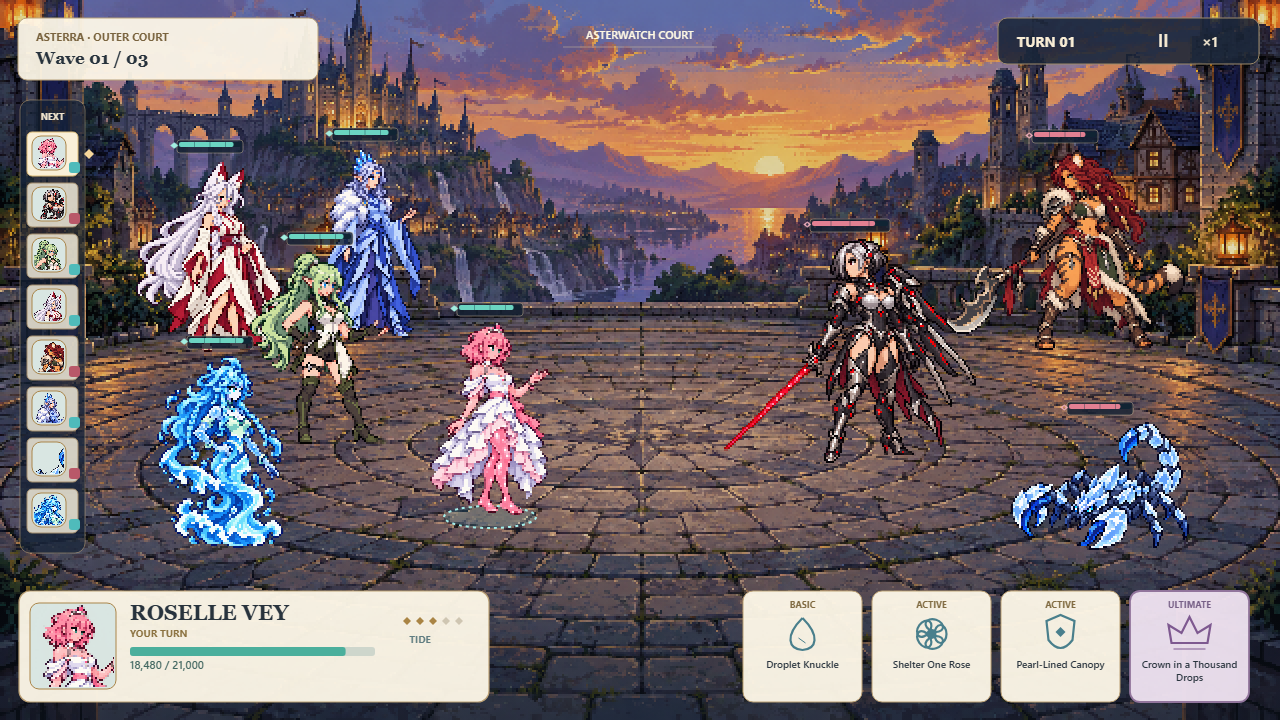
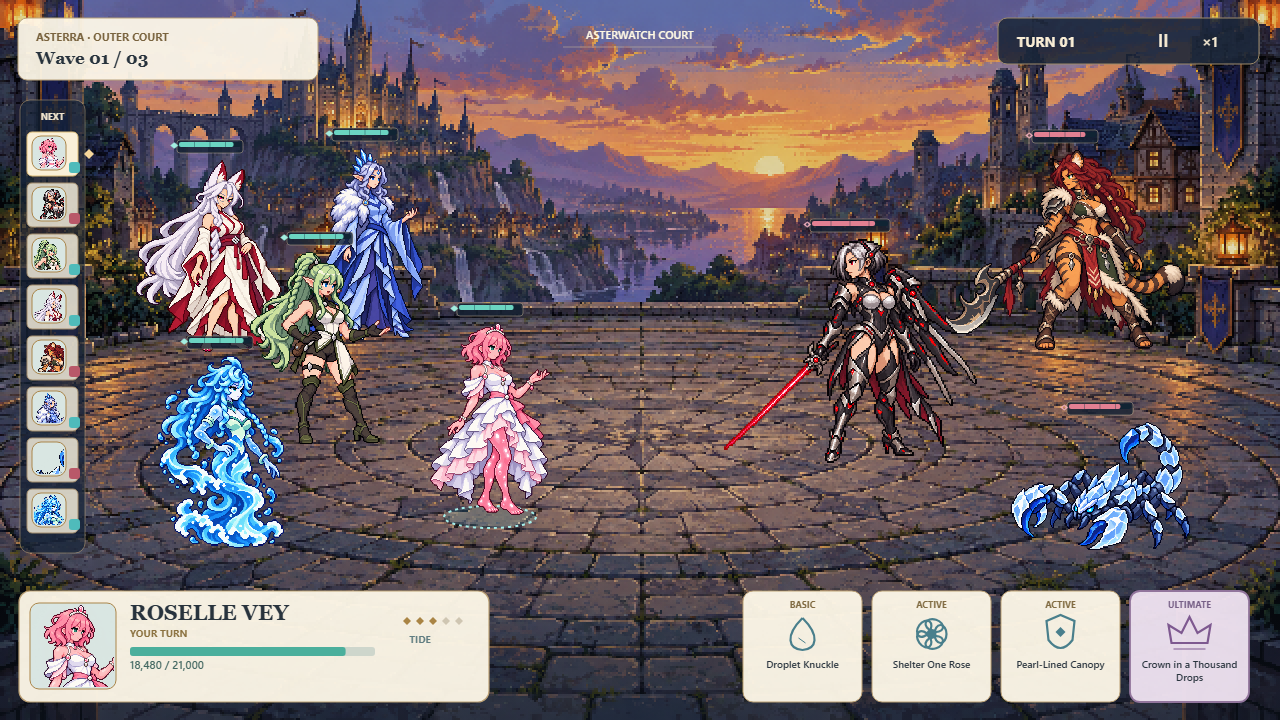
Publish current ProjectG character and kit review

diff --git a/combat.html b/combat.html
@@ -1,12 +1,12 @@
 <!doctype html><html lang="en"><head><meta charset="utf-8"><meta name="viewport" content="width=device-width, initial-scale=1"><title>ProjectG · Three combat drafts</title><style>
 :root{color-scheme:light;--paper:#f4f0e7;--card:#fffdf8;--ink:#292930;--muted:#68645d;--gold:#866427;--line:#dbd0bb}*{box-sizing:border-box}body{margin:0;background:var(--paper);color:var(--ink);font:15px/1.55 system-ui,-apple-system,"Segoe UI",sans-serif}main{max-width:1500px;margin:auto;padding:30px clamp(14px,3vw,38px) 48px}a{color:#77551b;text-underline-offset:3px}button{font:inherit;cursor:pointer}button:disabled{cursor:wait;opacity:.55}a:focus-visible,button:focus-visible{outline:3px solid #a98036;outline-offset:3px}.eyebrow{margin:0 0 8px;color:var(--gold);font-size:11px;font-weight:750;letter-spacing:.14em;text-transform:uppercase}h1{margin:0;font:500 clamp(30px,4vw,44px)/1.15 Georgia,serif}.intro{max-width:860px;color:var(--muted);margin:14px 0}.links{display:flex;flex-wrap:wrap;gap:8px 20px;margin:16px 0}.notice{padding:11px 15px;background:#eae0ca;border-left:3px solid #a98036;font-size:14px}.layouts{display:grid;grid-template-columns:repeat(3,minmax(0,1fr));gap:12px;margin:24px 0 18px}.layout{min-width:0;text-align:left;min-height:94px;border:1px solid var(--line);border-radius:12px;padding:13px 15px;background:var(--card);color:var(--ink)}.layout strong{display:block;font:500 21px/1.25 Georgia,serif}.layout span{display:block;margin-top:5px;color:var(--muted);font-size:12px}.layout[aria-pressed=true]{border-color:#8b6c32;box-shadow:inset 0 0 0 1px #8b6c32;background:#fff7e4}.toolbar{display:flex;flex-wrap:wrap;align-items:center;justify-content:space-between;gap:12px;margin:0 0 12px}.zoom{display:flex;flex-wrap:wrap;gap:6px;align-items:center}.zoom-label{font-size:12px;color:var(--muted);margin-right:4px}.zoom button,.download{min-height:42px;border:1px solid var(--line);border-radius:8px;padding:8px 13px;background:var(--card);color:var(--ink)}.zoom button[aria-pressed=true]{background:#eae0ca;border-color:#a8874b}.download{background:#866427;color:white;border-color:#866427}.canvas-viewport{width:100%;overflow:auto;border:1px solid #bcb196;border-radius:13px;background:#252831;box-shadow:0 8px 30px #30281c18}.canvas-viewport canvas{display:block;max-width:none;width:100%;height:auto;image-rendering:pixelated}.canvas-viewport[data-zoom="1"] canvas{width:1280px;height:720px}.canvas-viewport[data-zoom="2"] canvas{width:2560px;height:1440px}.caption{display:flex;flex-wrap:wrap;justify-content:space-between;gap:6px;color:var(--muted);font-size:12px;margin:9px 0 0}.caption strong{color:var(--ink)}.grid-note{margin-top:24px;padding:16px 18px;border:1px solid var(--line);border-radius:12px;background:var(--card)}.grid-note h2,.exports h2{font:500 24px/1.25 Georgia,serif;margin:0 0 8px}.grid-note p{margin:7px 0;font-size:13px;color:var(--muted)}.grid-scroll{overflow:auto}table{width:100%;border-collapse:collapse;margin-top:12px;font-size:12px}th,td{padding:8px 10px;text-align:left;border-top:1px solid #e5ddce;white-space:nowrap}th{color:var(--muted);font-weight:600}.exports{margin-top:24px}.export-grid{display:grid;grid-template-columns:repeat(3,minmax(0,1fr));gap:14px}.export{display:block;overflow:hidden;border:1px solid var(--line);border-radius:10px;background:var(--card);text-decoration:none}.export img{width:100%;height:auto;display:block;image-rendering:pixelated}.export span{display:block;padding:10px 12px;font-size:13px}.pending{padding:16px;color:var(--muted);font-size:13px}.loading{margin:10px 0;font-size:13px;color:var(--muted)}footer{margin-top:24px;color:var(--muted);font-size:12px}@media(max-width:700px){.layouts{grid-template-columns:1fr;gap:8px}.layout{min-height:0;padding:11px 13px}.layout strong{font-size:19px}.export-grid{grid-template-columns:1fr}.toolbar{align-items:flex-start}.download{width:100%}.caption{display:block}.caption span{display:block;margin-top:4px}main{padding-top:23px}}
 </style></head><body><main>
-<header><p class="eyebrow">ProjectG · Combat composition review</p><h1>A battlefield with room to breathe.</h1><p class="intro">Three arrangements. The same five heroes, three enemies and shared courtyard. Compare coarse pixel characters, staggered team placement and the ivory-and-gold interface.</p><nav class="links" aria-label="Review pages"><a href="review.html">Character designs</a><a href="enemies.html">Enemy designs</a><a href="kits.html">Kit workshop</a><a href="roselle.html">Roselle draft</a><a href="abilities.html">Ability catalogue</a></nav><p class="notice">Visual drafts for your feedback. These new style translations and layouts are not accepted or implemented in the game. Values and combat controls inside the picture are illustrative.</p></header>
+<header><p class="eyebrow">ProjectG · Combat composition review</p><h1>A battlefield with room to breathe.</h1><p class="intro">Detail pass 2 doubles the character grid resolution while keeping the same on-screen sizes and placements. Compare three arrangements with five heroes, three enemies and the shared courtyard.</p><nav class="links" aria-label="Review pages"><a href="review.html">Character designs</a><a href="enemies.html">Enemy designs</a><a href="kits.html">Kit workshop</a><a href="roselle.html">Roselle draft</a><a href="abilities.html">Ability catalogue</a></nav><p class="notice">Visual drafts for your feedback. These new style translations and layouts are not accepted or implemented in the game. Values and combat controls inside the picture are illustrative.</p></header>
 <section class="layouts" aria-label="Choose a combat layout"><button class="layout" type="button" data-layout="a" aria-pressed="true" disabled><strong>A · Opposing Wedges</strong><span>Five heroes left and three enemies right in balanced staggered depth; compact floating HP bars, open center, ivory active-unit panel lower left and four skills at the lower right.</span></button><button class="layout" type="button" data-layout="b" aria-pressed="false" disabled><strong>B · Deep Diamond</strong><span>Five heroes in a deeper diamond/pentagon cluster; enemies in a counter triangle. Slender ivory/gold edge UI and left initiative rail leave a larger arena.</span></button><button class="layout" type="button" data-layout="c" aria-pressed="false" disabled><strong>C · Boss Focus</strong><span>Five allies in a compact advancing fan against Seraxis as the main captain and two flanking enemies. Captain enlarged on a documented larger logical grid; clear target highlight and restrained UI.</span></button></section><div class="toolbar"><div class="zoom" aria-label="Canvas inspection scale"><span class="zoom-label">Inspect</span><button type="button" data-zoom="fit" aria-pressed="true">Fit</button><button type="button" data-zoom="1" aria-pressed="false">1× pixels</button><button type="button" data-zoom="2" aria-pressed="false">2× pixels</button></div><button type="button" class="download" id="download-canvas" disabled>Download this canvas · PNG</button></div>
[1 lines of base64/hex data omitted]
-<section class="grid-note"><h2>Inspect the character pixel scale.</h2><p>Generated source images are larger originals. This canvas crops each visible subject, samples it onto a small intermediate grid and displays that grid at <strong>2× with nearest-neighbor scaling</strong>. It is an explicit review target, not a claim that the originals were authored at native 96px.</p><p>Heroes: 96px tall → 192px on stage. Seraxis: 112px → 224px (Boss Focus: 128px → 256px). Velkara: 100px → 200px. Scorpion: 64px → 128px. The background is sampled to 640 × 360, then displayed at 2×. UI text is drawn at the 1280 × 720 screen resolution.</p><div class="grid-scroll"><table><thead><tr><th>Character</th><th>Intermediate grid</th><th>On the 1280 × 720 canvas</th></tr></thead><tbody id="grid-rows"></tbody></table></div></section>
-<section class="exports"><h2>Compare the actual canvas exports.</h2><p class="intro">These PNGs are exported from the same rendered canvases above.</p><div class="export-grid"><a class="export" href="combat-draft-assets/combat-draft-a.png" download><img src="combat-draft-assets/combat-draft-a.png" alt="Actual canvas export: Opposing Wedges" loading="lazy"><span>A · Opposing Wedges · PNG</span></a><a class="export" href="combat-draft-assets/combat-draft-b.png" download><img src="combat-draft-assets/combat-draft-b.png" alt="Actual canvas export: Deep Diamond" loading="lazy"><span>B · Deep Diamond · PNG</span></a><a class="export" href="combat-draft-assets/combat-draft-c.png" download><img src="combat-draft-assets/combat-draft-c.png" alt="Actual canvas export: Boss Focus" loading="lazy"><span>C · Boss Focus · PNG</span></a></div></section><footer>All three layouts reuse the same selected art. Draft art acceptance, UI direction and gameplay integration remain separate choices.</footer>
-<script id="combat-data" type="application/json">{"background": {"sprite": "combat-draft-assets/asterwatch-court-pixel-v1.png"}, "units": [{"id": "roselle-vey", "name": "Roselle Vey", "team": "hero", "logicalHeight": 96, "displayScale": 2, "facing": "right", "sprite": "combat-draft-assets/draft-roselle-vey-coarse-v1.png"}, {"id": "liora-fernveil", "name": "Liora Fernveil", "team": "hero", "logicalHeight": 96, "displayScale": 2, "facing": "right", "sprite": "combat-draft-assets/draft-liora-fernveil-coarse-v1.png"}, {"id": "soryn-veilglass", "name": "Soryn Veilglass", "team": "hero", "logicalHeight": 96, "displayScale": 2, "facing": "right", "sprite": "combat-draft-assets/draft-soryn-veilglass-coarse-v1.png"}, {"id": "isavelle-frostmere", "name": "Isavelle Frostmere", "team": "hero", "logicalHeight": 96, "displayScale": 2, "facing": "right", "sprite": "combat-draft-assets/draft-isavelle-frostmere-coarse-v1.png"}, {"id": "nerielle-wavecrest", "name": "Nerielle Wavecrest", "team": "hero", "logicalHeight": 96, "displayScale": 2, "facing": "right", "sprite": "combat-draft-assets/draft-nerielle-wavecrest-coarse-v1.png"}, {"id": "seraxis-chrome-empress", "name": "Seraxis, Chrome Empress", "team": "enemy", "logicalHeight": 112, "displayScale": 2, "facing": "left", "sprite": "combat-draft-assets/draft-seraxis-chrome-empress-coarse-v1.png"}, {"id": "velkara-moonfang", "name": "Velkara Moonfang", "team": "enemy", "logicalHeight": 100, "displayScale": 2, "facing": "left", "sprite": "combat-draft-assets/draft-velkara-moonfang-coarse-v1.png"}, {"id": "frostglass-scorpion", "name": "Frostglass Scorpion", "team": "enemy", "logicalHeight": 64, "displayScale": 2, "facing": "left", "sprite": "combat-draft-assets/draft-frostglass-scorpion-coarse-v1.png"}], "layouts": [{"id": "a", "name": "Opposing Wedges", "description": "Five heroes left and three enemies right in balanced staggered depth; compact floating HP bars, open center, ivory active-unit panel lower left and four skills at the lower right.", "label": "A", "positions": [{"id": "soryn-veilglass", "x": 210, "y": 352}, {"id": "isavelle-frostmere", "x": 365, "y": 340}, {"id": "liora-fernveil", "x": 320, "y": 444}, {"id": "nerielle-wavecrest", "x": 220, "y": 548}, {"id": "roselle-vey", "x": 490, "y": 515}, {"id": "seraxis-chrome-empress", "x": 850, "y": 463}, {"id": "velkara-moonfang", "x": 1065, "y": 350}, {"id": "frostglass-scorpion", "x": 1100, "y": 550}]}, {"id": "b", "name": "Deep Diamond", "description": "Five heroes in a deeper diamond/pentagon cluster; enemies in a counter triangle. Slender ivory/gold edge UI and left initiative rail leave a larger arena.", "label": "B", "positions": [{"id": "soryn-veilglass", "x": 205, "y": 430}, {"id": "liora-fernveil", "x": 330, "y": 340}, {"id": "isavelle-frostmere", "x": 390, "y": 425}, {"id": "nerielle-wavecrest", "x": 310, "y": 557}, {"id": "roselle-vey", "x": 540, "y": 515}, {"id": "seraxis-chrome-empress", "x": 885, "y": 445}, {"id": "velkara-moonfang", "x": 1090, "y": 340}, {"id": "frostglass-scorpion", "x": 1065, "y": 563}]}, {"id": "c", "name": "Boss Focus", "description": "Five allies in a compact advancing fan against Seraxis as the main captain and two flanking enemies. Captain enlarged on a documented larger logical grid; clear target highlight and restrained UI.", "label": "C", "positions": [{"id": "soryn-veilglass", "x": 210, "y": 340}, {"id": "liora-fernveil", "x": 315, "y": 389}, {"id": "isavelle-frostmere", "x": 215, "y": 510}, {"id": "nerielle-wavecrest", "x": 350, "y": 551}, {"id": "roselle-vey", "x": 515, "y": 485}, {"id": "seraxis-chrome-empress", "x": 930, "y": 490, "logicalHeight": 128}, {"id": "velkara-moonfang", "x": 1110, "y": 340}, {"id": "frostglass-scorpion", "x": 1130, "y": 565}]}], "activeId": "roselle-vey", "skills": ["Droplet Knuckle", "Shelter One Rose", "Pearl-Lined Canopy", "Crown in a Thousand Drops"]}</script><script>
[1 lines of base64/hex data omitted]
+<section class="grid-note"><h2>Inspect the character pixel scale.</h2><p>Generated source images are larger originals. This canvas crops each visible subject, samples it onto an intermediate grid and displays that grid at <strong>1× with nearest-neighbor rendering</strong>. Each character grid is twice as tall and twice as wide as the first pass, with the same on-stage height. The originals remain unchanged high-resolution images, rather than native 192px source art.</p><p>Heroes: 192px tall → 192px on stage. Seraxis: 224px → 224px (Boss Focus: 256px → 256px). Velkara: 200px → 200px. Scorpion: 128px → 128px. The background is sampled to 640 × 360, then displayed at 2×. UI text is drawn at the 1280 × 720 screen resolution.</p><div class="grid-scroll"><table><thead><tr><th>Character</th><th>Intermediate grid</th><th>On the 1280 × 720 canvas</th></tr></thead><tbody id="grid-rows"></tbody></table></div></section>
+<section class="exports"><h2>Compare the actual canvas exports.</h2><p class="intro">These PNGs are exported from the same rendered canvases above.</p><div class="export-grid"><a class="export" href="combat-draft-assets/combat-draft-a.png?detail=2" download><img src="combat-draft-assets/combat-draft-a.png?detail=2" alt="Actual canvas export: Opposing Wedges" loading="lazy"><span>A · Opposing Wedges · PNG</span></a><a class="export" href="combat-draft-assets/combat-draft-b.png?detail=2" download><img src="combat-draft-assets/combat-draft-b.png?detail=2" alt="Actual canvas export: Deep Diamond" loading="lazy"><span>B · Deep Diamond · PNG</span></a><a class="export" href="combat-draft-assets/combat-draft-c.png?detail=2" download><img src="combat-draft-assets/combat-draft-c.png?detail=2" alt="Actual canvas export: Boss Focus" loading="lazy"><span>C · Boss Focus · PNG</span></a></div></section><footer>All three layouts reuse the same selected art. Draft art acceptance, UI direction and gameplay integration remain separate choices.</footer>
+<script id="combat-data" type="application/json">{"background": {"sprite": "combat-draft-assets/asterwatch-court-pixel-v1.png"}, "units": [{"id": "roselle-vey", "name": "Roselle Vey", "team": "hero", "logicalHeight": 192, "displayScale": 1, "facing": "right", "sprite": "combat-draft-assets/draft-roselle-vey-coarse-v1.png"}, {"id": "liora-fernveil", "name": "Liora Fernveil", "team": "hero", "logicalHeight": 192, "displayScale": 1, "facing": "right", "sprite": "combat-draft-assets/draft-liora-fernveil-coarse-v1.png"}, {"id": "soryn-veilglass", "name": "Soryn Veilglass", "team": "hero", "logicalHeight": 192, "displayScale": 1, "facing": "right", "sprite": "combat-draft-assets/draft-soryn-veilglass-coarse-v1.png"}, {"id": "isavelle-frostmere", "name": "Isavelle Frostmere", "team": "hero", "logicalHeight": 192, "displayScale": 1, "facing": "right", "sprite": "combat-draft-assets/draft-isavelle-frostmere-coarse-v1.png"}, {"id": "nerielle-wavecrest", "name": "Nerielle Wavecrest", "team": "hero", "logicalHeight": 192, "displayScale": 1, "facing": "right", "sprite": "combat-draft-assets/draft-nerielle-wavecrest-coarse-v1.png"}, {"id": "seraxis-chrome-empress", "name": "Seraxis, Chrome Empress", "team": "enemy", "logicalHeight": 224, "displayScale": 1, "facing": "left", "sprite": "combat-draft-assets/draft-seraxis-chrome-empress-coarse-v1.png"}, {"id": "velkara-moonfang", "name": "Velkara Moonfang", "team": "enemy", "logicalHeight": 200, "displayScale": 1, "facing": "left", "sprite": "combat-draft-assets/draft-velkara-moonfang-coarse-v1.png"}, {"id": "frostglass-scorpion", "name": "Frostglass Scorpion", "team": "enemy", "logicalHeight": 128, "displayScale": 1, "facing": "left", "sprite": "combat-draft-assets/draft-frostglass-scorpion-coarse-v1.png"}], "layouts": [{"id": "a", "name": "Opposing Wedges", "description": "Five heroes left and three enemies right in balanced staggered depth; compact floating HP bars, open center, ivory active-unit panel lower left and four skills at the lower right.", "label": "A", "positions": [{"id": "soryn-veilglass", "x": 210, "y": 352}, {"id": "isavelle-frostmere", "x": 365, "y": 340}, {"id": "liora-fernveil", "x": 320, "y": 444}, {"id": "nerielle-wavecrest", "x": 220, "y": 548}, {"id": "roselle-vey", "x": 490, "y": 515}, {"id": "seraxis-chrome-empress", "x": 850, "y": 463}, {"id": "velkara-moonfang", "x": 1065, "y": 350}, {"id": "frostglass-scorpion", "x": 1100, "y": 550}]}, {"id": "b", "name": "Deep Diamond", "description": "Five heroes in a deeper diamond/pentagon cluster; enemies in a counter triangle. Slender ivory/gold edge UI and left initiative rail leave a larger arena.", "label": "B", "positions": [{"id": "soryn-veilglass", "x": 205, "y": 430}, {"id": "liora-fernveil", "x": 330, "y": 340}, {"id": "isavelle-frostmere", "x": 390, "y": 425}, {"id": "nerielle-wavecrest", "x": 310, "y": 557}, {"id": "roselle-vey", "x": 540, "y": 515}, {"id": "seraxis-chrome-empress", "x": 885, "y": 445}, {"id": "velkara-moonfang", "x": 1090, "y": 340}, {"id": "frostglass-scorpion", "x": 1065, "y": 563}]}, {"id": "c", "name": "Boss Focus", "description": "Five allies in a compact advancing fan against Seraxis as the main captain and two flanking enemies. Captain enlarged on a documented larger logical grid; clear target highlight and restrained UI.", "label": "C", "positions": [{"id": "soryn-veilglass", "x": 210, "y": 340}, {"id": "liora-fernveil", "x": 315, "y": 389}, {"id": "isavelle-frostmere", "x": 215, "y": 510}, {"id": "nerielle-wavecrest", "x": 350, "y": 551}, {"id": "roselle-vey", "x": 515, "y": 485}, {"id": "seraxis-chrome-empress", "x": 930, "y": 490, "logicalHeight": 256}, {"id": "velkara-moonfang", "x": 1110, "y": 340}, {"id": "frostglass-scorpion", "x": 1130, "y": 565}]}], "activeId": "roselle-vey", "skills": ["Droplet Knuckle", "Shelter One Rose", "Pearl-Lined Canopy", "Crown in a Thousand Drops"]}</script><script>
 const data=JSON.parse(document.querySelector('#combat-data').textContent),canvas=document.querySelector('#combat-canvas'),ctx=canvas.getContext('2d'),viewport=document.querySelector('#canvas-viewport'),status=document.querySelector('#render-status'),exportButton=document.querySelector('#download-canvas');
 const images=new Map(),grids=new Map(),bounds=new Map();let selected='a',ready=false;
 const ink='#28333d',ivory='#fff9e9',gold='#aa854a',teal='#4fbbbb',enemyColor='#b95869';
@@ -22,11 +22,11 @@ function portrait(unit,x,y,size){rounded(x,y,size,size,9,'#d9e6e2',gold);ctx.sav
 function topHud(layout){if(layout.id==='c'){rounded(18,18,276,54,9,ivory+'ef','#b7a17a');text('ASTERRA · OUTER COURT',36,41,11,'#79633e','700');text('Wave 01 / 03',36,61,15,ink,'600');rounded(801,18,458,72,10,'#1c2639e8','#bd9870');text('SERAXIS, CHROME EMPRESS',824,44,17,'#fff4de','600','Georgia');text('CAPTAIN',1239,42,10,'#d5b68b','700','Segoe UI','right');rounded(824,56,410,9,3,'#111923');rounded(824,56,348,9,3,'#b95869');for(let i=0;i<6;i++)diamond(831+i*12,78,3,i<4?'#d3b077':'#697381');}else{rounded(18,18,layout.id==='b'?265:300,layout.id==='b'?52:62,9,ivory+'ee','#b7a17a');text('ASTERRA · OUTER COURT',36,41,11,'#79633e','700');text('Wave 01 / 03',36,layout.id==='b'?60:64,17,ink,'600','Georgia');rounded(998,18,261,46,9,'#1a2638df','#9e8b6a');text('TURN 01',1017,47,14,'#f9edd5','700');text('II',1158,47,18,'#f9edd5','600');text('×1',1202,47,14,'#f9edd5','600');}text('ASTERWATCH COURT',640,39,11,'#fff9e4','600','Segoe UI','center');line(563,47,717,47,'#e9d0a06e');}
 function initiative(layout){const compact=layout.id==='b',x=compact?12:20,w=compact?54:65;rounded(x,100,w,453,10,'#152237b8','#d2b58177');text('NEXT',x+w/2,120,9,'#efe3cc','700','Segoe UI','center');const order=['roselle-vey','seraxis-chrome-empress','liora-fernveil','soryn-veilglass','velkara-moonfang','isavelle-frostmere','frostglass-scorpion','nerielle-wavecrest'];order.forEach((id,i)=>{const unit=data.units.find(item=>item.id===id),y=132+i*51;rounded(x+7,y,w-14,44,5,i===0?'#f9efd8':'#e9e3d2e3',i===0?'#dfbd76':'#a48d6c');portrait(unit,x+12,y+4,34);rounded(x+w-16,y+30,11,11,3,unit.team==='hero'?teal:enemyColor);if(i===0)diamond(x+w+4,y+22,5,'#f5d69a');});}
 function groundMark(position,active,target){if(!active&&!target)return;ctx.save();ctx.beginPath();ctx.ellipse(position.x,position.y+2,target?66:46,target?15:11,0,0,Math.PI*2);ctx.fillStyle=target?'#b84f6433':'#5ed8d526';ctx.fill();ctx.strokeStyle=target?'#eb9eaa':'#a3eeea';ctx.lineWidth=2;ctx.setLineDash(target?[5,4]:[3,4]);ctx.stroke();ctx.restore();}
-function floatingBar(unit,position,grid,layout){const w=unit.id==='seraxis-chrome-empress'?76:62,x=position.x-w/2,y=position.y-grid.height*2-18;rounded(x-2,y-2,w+4,13,3,'#142031ce','#d3c09a70');rounded(x,y,w,5,2,'#102433');rounded(x,y,w*(unit.team==='hero'?.88:.83),5,2,unit.team==='hero'?'#6bd4c1':'#e28092');for(let i=1;i<4;i++)line(x+w*i/4,y,x+w*i/4,y+5,'#17354466');text(unit.team==='hero'?'◆':'◇',x-9,y+7,9,unit.team==='hero'?'#a3eee0':'#f1b0bd','700');}
-function unitDraw(unit,position,layout){const grid=gridFor(unit,position.logicalHeight||unit.logicalHeight),scale=2,w=grid.width*scale,h=grid.height*scale;groundMark(position,unit.id===data.activeId,layout.id==='c'&&unit.id==='seraxis-chrome-empress');ctx.imageSmoothingEnabled=false;ctx.drawImage(grid,Math.round(position.x-w/2),position.y-h,w,h);return {unit,position,grid};}
+function floatingBar(unit,position,grid,layout){const w=unit.id==='seraxis-chrome-empress'?76:62,x=position.x-w/2,y=position.y-grid.height*unit.displayScale-18;rounded(x-2,y-2,w+4,13,3,'#142031ce','#d3c09a70');rounded(x,y,w,5,2,'#102433');rounded(x,y,w*(unit.team==='hero'?.88:.83),5,2,unit.team==='hero'?'#6bd4c1':'#e28092');for(let i=1;i<4;i++)line(x+w*i/4,y,x+w*i/4,y+5,'#17354466');text(unit.team==='hero'?'◆':'◇',x-9,y+7,9,unit.team==='hero'?'#a3eee0':'#f1b0bd','700');}
+function unitDraw(unit,position,layout){const grid=gridFor(unit,position.logicalHeight||unit.logicalHeight),scale=unit.displayScale,w=grid.width*scale,h=grid.height*scale;groundMark(position,unit.id===data.activeId,layout.id==='c'&&unit.id==='seraxis-chrome-empress');ctx.imageSmoothingEnabled=false;ctx.drawImage(grid,Math.round(position.x-w/2),position.y-h,w,h);return {unit,position,grid};}
 function skillIcon(index,x,y,color){ctx.save();ctx.strokeStyle=color;ctx.fillStyle=color;ctx.lineWidth=2.2;if(index===0){ctx.beginPath();ctx.moveTo(x,y-16);ctx.bezierCurveTo(x-18,y+2,x-14,y+15,x,y+16);ctx.bezierCurveTo(x+14,y+15,x+18,y+2,x,y-16);ctx.stroke();line(x-4,y+4,x+3,y+9,color);}else if(index===1){for(let i=0;i<5;i++){const a=i*Math.PI*2/5;ctx.beginPath();ctx.ellipse(x+Math.cos(a)*9,y+Math.sin(a)*9,6,9,a,0,Math.PI*2);ctx.stroke();}ctx.beginPath();ctx.arc(x,y,5,0,Math.PI*2);ctx.fill();}else if(index===2){ctx.beginPath();ctx.moveTo(x-14,y-13);ctx.lineTo(x,y-19);ctx.lineTo(x+14,y-13);ctx.lineTo(x+12,y+6);ctx.quadraticCurveTo(x,y+22,x-12,y+6);ctx.closePath();ctx.stroke();diamond(x,y-2,5,color);}else{ctx.beginPath();ctx.moveTo(x-18,y+9);ctx.lineTo(x-21,y-9);ctx.lineTo(x-8,y-1);ctx.lineTo(x,y-17);ctx.lineTo(x+8,y-1);ctx.lineTo(x+21,y-9);ctx.lineTo(x+18,y+9);ctx.closePath();ctx.stroke();line(x-16,y+15,x+16,y+15,color);}ctx.restore();}
 function bottomHud(layout){const compact=layout.id==='b',y=compact?615:591,h=compact?87:111;rounded(19,y,compact?438:470,h,11,ivory+'f2','#bca175',1.2);const active=data.units.find(unit=>unit.id===data.activeId);portrait(active,30,y+12,compact?62:86);const labelX=compact?105:130;text('ROSELLE VEY',labelX,y+29,compact?18:21,ink,'600','Georgia');text('YOUR TURN',labelX,y+46,10,'#8b713f','700');rounded(labelX,y+56,compact?235:245,9,3,'#ced6cc');rounded(labelX,y+56,(compact?235:245)*.88,9,3,'#4baf9c');text('18,480 / 21,000',labelX,y+78,11,'#426761','600');if(!compact){for(let i=0;i<5;i++)diamond(407+i*13,y+30,4,i<3?'#a98444':'#cfc6b2');text('TIDE',420,y+52,10,'#607d82','700','Segoe UI','center');}const groupX=compact?783:743,buttonW=compact?109:119,gap=10,skillY=compact?615:591;data.skills.forEach((label,i)=>{const x=groupX+i*(buttonW+gap),last=i===3;rounded(x,skillY,buttonW,h,10,last?'#eee2f0f5':ivory+'f2',last?'#92759c':'#bca175',last?1.8:1);text(['BASIC','ACTIVE','ACTIVE','ULTIMATE'][i],x+buttonW/2,skillY+17,9,last?'#765f86':'#826c43','700','Segoe UI','center');skillIcon(i,x+buttonW/2,skillY+(compact?38:43),last?'#7e5990':'#497f8c');wrap(label,x+buttonW/2,skillY+(compact?66:77),buttonW-13,compact?9:10,ink,3);});}
-function render(){if(!ready)return;const layout=data.layouts.find(item=>item.id===selected);ctx.clearRect(0,0,1280,720);background();const rendered=[...layout.positions].sort((a,b)=>a.y-b.y).map(position=>unitDraw(data.units.find(unit=>unit.id===position.id),position,layout));rendered.forEach(item=>floatingBar(item.unit,item.position,item.grid,layout));topHud(layout);initiative(layout);bottomHud(layout);document.querySelector('#layout-caption').textContent=layout.label+' · '+layout.name;document.querySelector('#layout-description').textContent=layout.description;document.querySelector('#grid-rows').innerHTML=data.units.map(unit=>{const position=layout.positions.find(item=>item.id===unit.id),grid=gridFor(unit,position.logicalHeight||unit.logicalHeight);return `<tr><td>${unit.name}</td><td>${grid.width} × ${grid.height}</td><td>${grid.width*2} × ${grid.height*2}</td></tr>`;}).join('');canvas.dataset.renderedLayout=selected;canvas.dataset.renderStatus='ready';status.textContent='1280 × 720 canvas ready · draft for visual review';for(const button of document.querySelectorAll('[data-layout]'))button.setAttribute('aria-pressed',String(button.dataset.layout===selected));exportButton.disabled=false;}
+function render(){if(!ready)return;const layout=data.layouts.find(item=>item.id===selected);ctx.clearRect(0,0,1280,720);background();const rendered=[...layout.positions].sort((a,b)=>a.y-b.y).map(position=>unitDraw(data.units.find(unit=>unit.id===position.id),position,layout));rendered.forEach(item=>floatingBar(item.unit,item.position,item.grid,layout));topHud(layout);initiative(layout);bottomHud(layout);document.querySelector('#layout-caption').textContent=layout.label+' · '+layout.name;document.querySelector('#layout-description').textContent=layout.description;document.querySelector('#grid-rows').innerHTML=data.units.map(unit=>{const position=layout.positions.find(item=>item.id===unit.id),grid=gridFor(unit,position.logicalHeight||unit.logicalHeight);return `<tr><td>${unit.name}</td><td>${grid.width} × ${grid.height}</td><td>${grid.width*unit.displayScale} × ${grid.height*unit.displayScale}</td></tr>`;}).join('');canvas.dataset.renderedLayout=selected;canvas.dataset.renderStatus='ready';status.textContent='1280 × 720 canvas ready · draft for visual review';for(const button of document.querySelectorAll('[data-layout]'))button.setAttribute('aria-pressed',String(button.dataset.layout===selected));exportButton.disabled=false;}
 for(const button of document.querySelectorAll('[data-layout]'))button.addEventListener('click',()=>{selected=button.dataset.layout;render();});for(const button of document.querySelectorAll('button[data-zoom]'))button.addEventListener('click',()=>{viewport.dataset.zoom=button.dataset.zoom;for(const other of document.querySelectorAll('button[data-zoom]'))other.setAttribute('aria-pressed',String(other===button));});exportButton.addEventListener('click',()=>{if(!ready)return;const exportedLayout=selected;canvas.toBlob(blob=>{if(!blob)return;const href=URL.createObjectURL(blob),link=document.createElement('a');link.href=href;link.download=`projectg-combat-${exportedLayout}.png`;link.click();setTimeout(()=>URL.revokeObjectURL(href),2000);},'image/png');});
 async function load(){try{await Promise.all([{id:'background',...data.background},...data.units].map(asset=>new Promise((resolve,reject)=>{const image=new Image();image.onload=()=>{images.set(asset.id,image);if(asset.id!=='background')bounds.set(asset.id,alphaBounds(image));resolve();};image.onerror=()=>reject(Error('Some draft art is still in preparation.'));image.src=asset.sprite;})));ready=true;for(const button of document.querySelectorAll('[data-layout]'))button.disabled=false;const fragment=location.hash.slice(1);if(data.layouts.some(layout=>layout.id===fragment))selected=fragment;render();}catch(error){status.textContent=error.message;canvas.dataset.renderStatus='incomplete';ctx.fillStyle='#222a36';ctx.fillRect(0,0,1280,720);text('Combat drafts are preparing',640,335,34,'#f2e9d4','500','Georgia','center');text('The selected original art will appear here when ready.',640,379,17,'#c7c9cb','400','Segoe UI','center');}}
 load();
